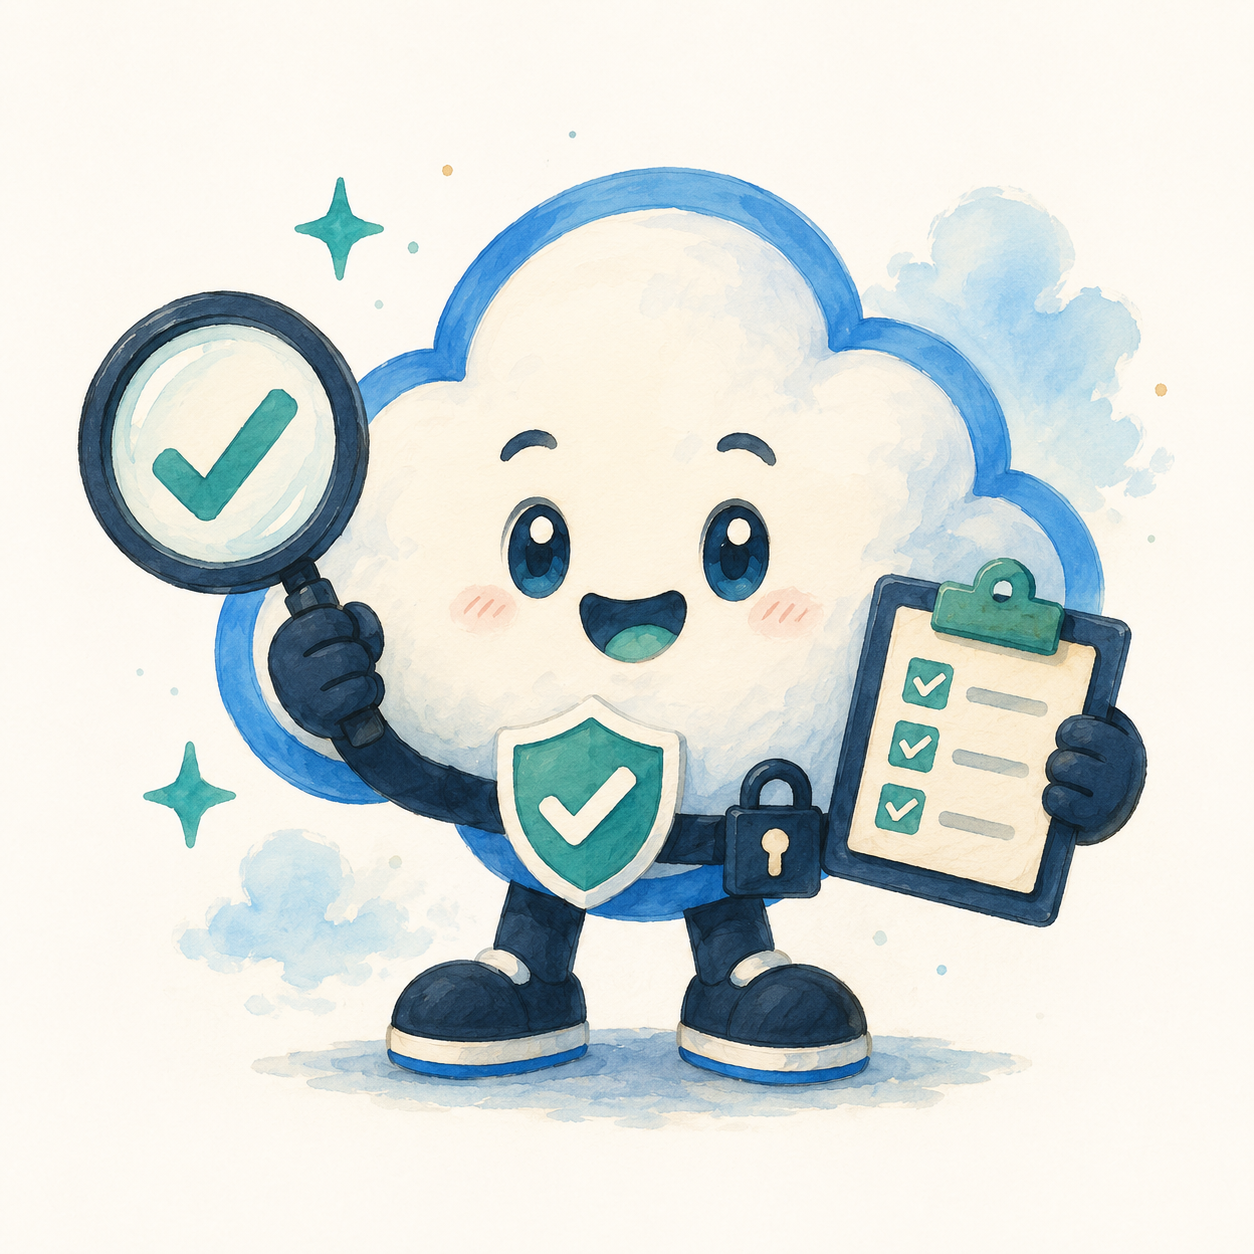
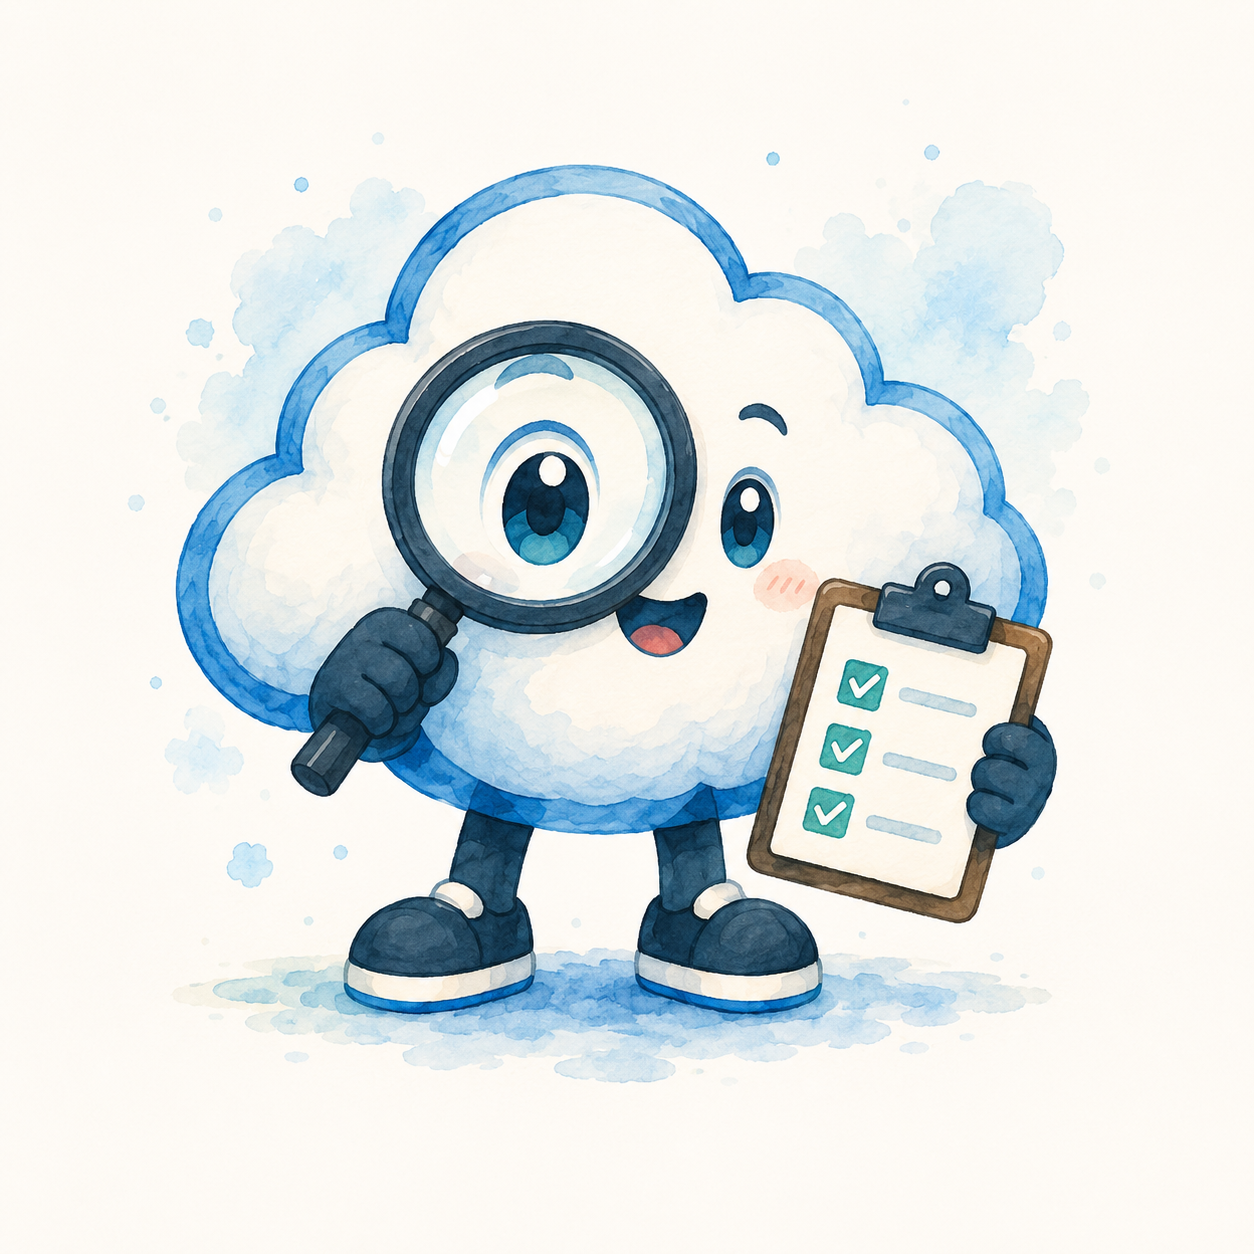
Update README mascot and badges

diff --git a/README.md b/README.md
@@ -1,6 +1,16 @@
 # aws-hygiene-auditor
 
-<img src="docs/assets/aws-hygiene-auditor-mascot.png" alt="AWS Hygiene Auditor mascot" width="240">
+<p align="center">
+  <img src="docs/assets/aws-hygiene-auditor-mascot.png" alt="AWS Hygiene Auditor mascot" width="320">
+</p>
+
+<p align="center">
+  <a href="https://github.com/mstrugarevic1/aws-hygiene-auditor/actions/workflows/test.yml"><img alt="Tests" src="https://github.com/mstrugarevic1/aws-hygiene-auditor/actions/workflows/test.yml/badge.svg"></a>
+  <img alt="Python 3.11+" src="https://img.shields.io/badge/python-3.11%2B-blue">
+  <img alt="pytest" src="https://img.shields.io/badge/tests-pytest-green">
+  <img alt="License MIT" src="https://img.shields.io/badge/license-MIT-green">
+  <img alt="AI assisted with Codex" src="https://img.shields.io/badge/AI_assisted-Codex-111827">
+</p>
 
 `aws-hygiene-auditor` is a small Python CLI that scans an AWS account for common security,
 cost, and governance hygiene issues.
@@ -148,3 +158,7 @@ pytest
 ```
 
 CI runs those commands without AWS credentials and without integration tests against a real account.
+
+## License
+
+MIT. See [LICENSE](LICENSE).